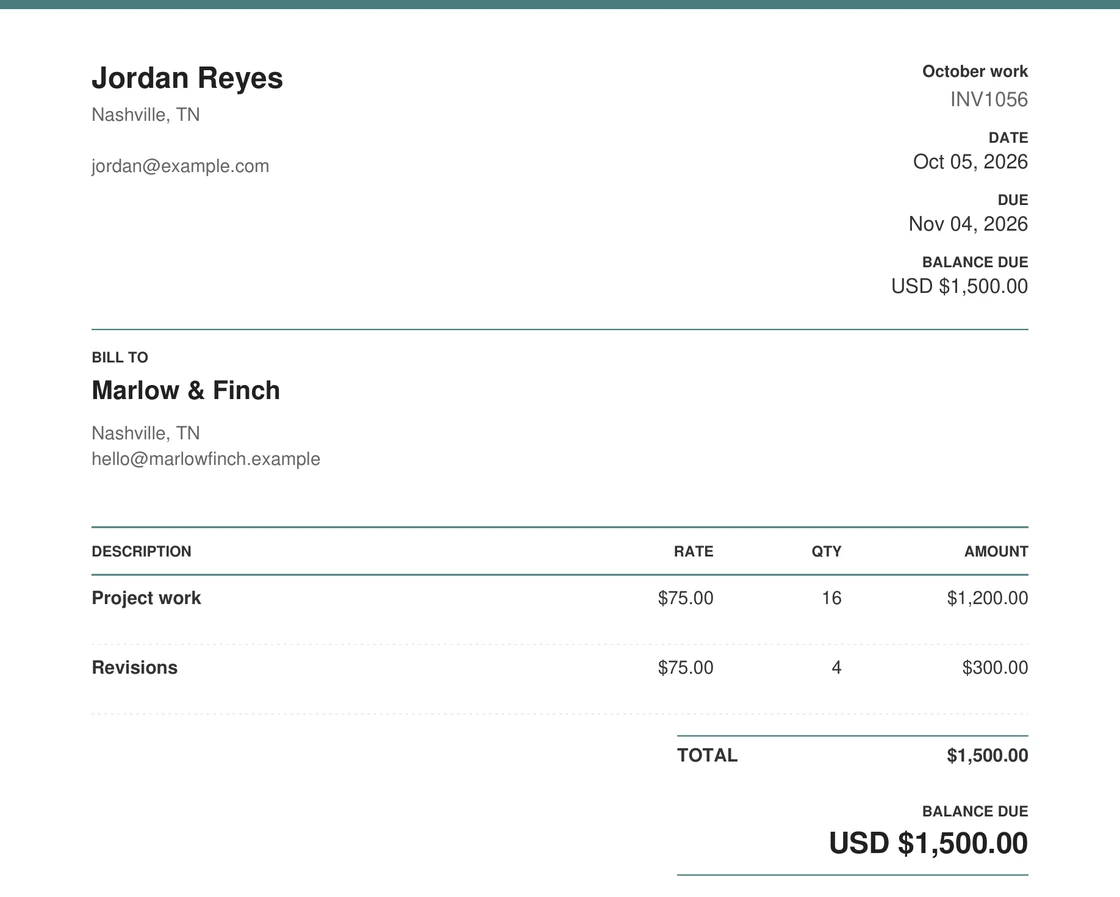
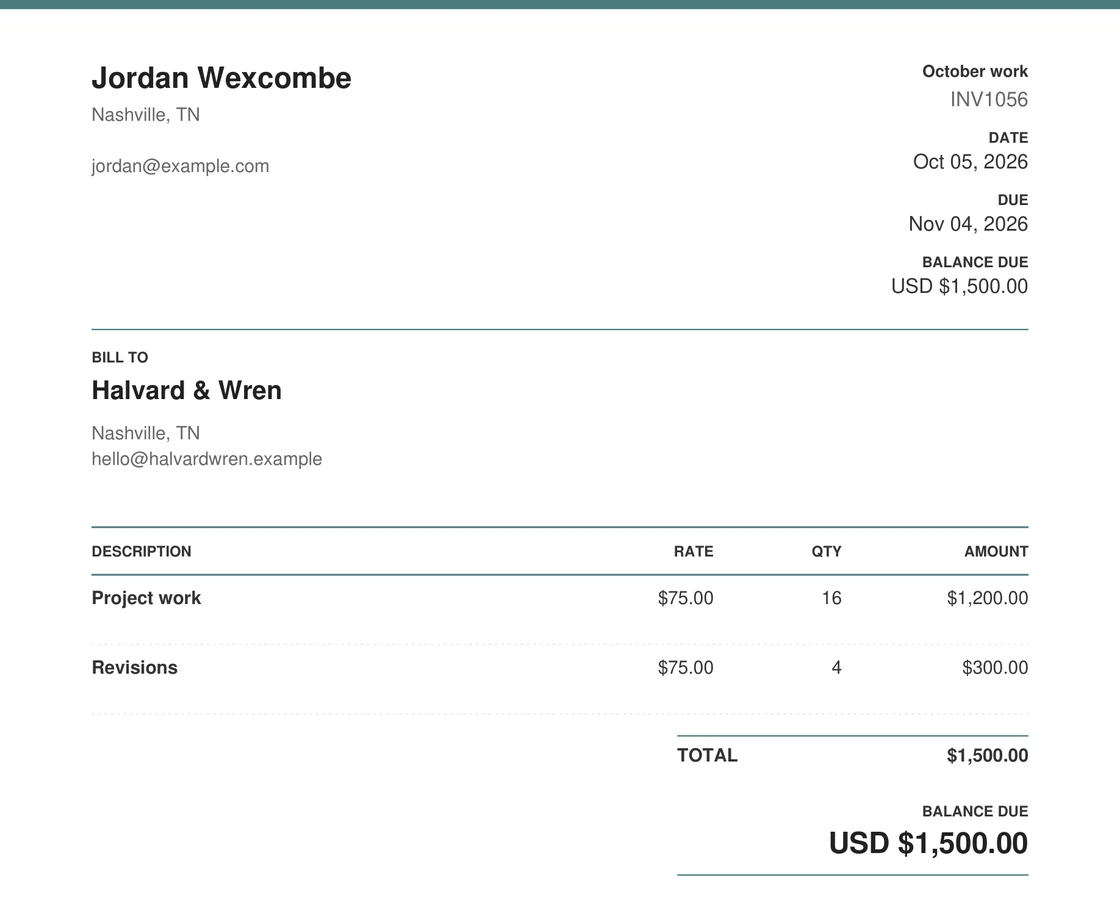
/mac: the renamed INV1056 renders (Halvard & Wren), the latte line (legal G10 v2), the dashboard alt
- assets/samples/inv1056-<style>.pdf: the invoice-film chat's renders after the G11 renames (Jordan Wexcombe, Halvard & Wren, no payment brand in the note), re-rastered with build-hero-collage.py sheets --set inv1056; the deck's alt text follows.
- The offer line: "less than a cup of coffee" -> "less than a typical café latte" (legal G10 v2: a regular cup is $3.77, a café latte $5.60, so the comparison is scoped). Daniel's OK is pending.
- The dashboard alt: one fictional overdue invoice (the re-captured shots).

Changed region(s): [[0.0938, 0.4058, 0.25, 0.4682], [0.1562, 0.0624, 0.3125, 0.1249], [0.125, 0.4994, 0.2812, 0.5307]]

diff --git a/mac.html b/mac.html
@@ -53,7 +53,7 @@
           <div class="hero-copy">
             <p class="hero-kicker">For Mac, M1 or later.</p>
             <h1>Invoice your next client for $5 a month</h1>
-            <p class="offer">$5 a month is less than a cup of coffee, and it includes every feature and unlimited invoices. The first seven days are free, with no card.</p>
+            <p class="offer">$5 a month is less than a typical café latte, and it includes every feature and unlimited invoices. The first seven days are free, with no card.</p>
             <p class="lede">
               A desktop invoicing app for freelancers. Your clients and invoices
               live in a folder on your own Mac, not on a web app's servers. Made
@@ -100,7 +100,7 @@
             </div>
           </div>
 
-          <!-- The deck: the ads' invoice (INV1056, Marlow & Finch) in the four
+          <!-- The deck: the ads' invoice (INV1056, Halvard & Wren) in the four
                templates, one real sheet each, in four fixed slots laid out by the
                --x/--y/--s/--z custom properties (percent of the deck's width, scale,
                stacking order; the ads' template in front). script.js moves sheets
@@ -108,8 +108,8 @@
                description from data-alt. -->
           <figure class="hero-invoice" id="invoice">
             <div class="stack" data-stack>
-              <a class="sheet is-front" href="/assets/samples/inv1056-modern.pdf" data-sheet="modern" data-alt="An invoice for Marlow &amp; Finch in the Modern template: project work and revisions, $1,500.00 due." style="--x: 0; --y: 36; --s: 1; --z: 4" aria-label="Open the Modern invoice as a PDF">
-                <img src="/assets/screenshots/inv1056-modern.webp" width="1120" height="897" alt="An invoice for Marlow &amp; Finch in the Modern template: project work and revisions, $1,500.00 due." fetchpriority="high" />
+              <a class="sheet is-front" href="/assets/samples/inv1056-modern.pdf" data-sheet="modern" data-alt="An invoice for Halvard &amp; Wren in the Modern template: project work and revisions, $1,500.00 due." style="--x: 0; --y: 36; --s: 1; --z: 4" aria-label="Open the Modern invoice as a PDF">
+                <img src="/assets/screenshots/inv1056-modern.webp" width="1120" height="897" alt="An invoice for Halvard &amp; Wren in the Modern template: project work and revisions, $1,500.00 due." fetchpriority="high" />
               </a>
               <a class="sheet" href="/assets/samples/inv1056-bold.pdf" data-sheet="bold" data-alt="The same invoice in the Bold template." style="--x: 4.878; --y: 24; --s: 0.985; --z: 3" aria-hidden="true" tabindex="-1">
                 <img src="/assets/screenshots/inv1056-bold.webp" width="1120" height="897" alt="" />
@@ -171,11 +171,11 @@
           <figure class="figure shot">
             <picture class="shot-dark">
               <source media="(max-width: 640px)" srcset="/assets/screenshots/dashboard-attention-dark.png" width="875" height="503" />
-              <img src="/assets/screenshots/dashboard-dark.png" width="2880" height="1800" alt="The Freelance Easy dashboard, including three fictional overdue invoices that need attention." loading="lazy" />
+              <img src="/assets/screenshots/dashboard-dark.png" width="2880" height="1800" alt="The Freelance Easy dashboard, including a fictional overdue invoice that needs attention." loading="lazy" />
             </picture>
             <picture class="shot-light">
               <source media="(max-width: 640px)" srcset="/assets/screenshots/dashboard-attention-light.png" width="875" height="503" />
-              <img src="/assets/screenshots/dashboard-light.png" width="2880" height="1800" alt="The Freelance Easy dashboard in the light theme, including three fictional overdue invoices that need attention." loading="lazy" />
+              <img src="/assets/screenshots/dashboard-light.png" width="2880" height="1800" alt="The Freelance Easy dashboard in the light theme, including a fictional overdue invoice that needs attention." loading="lazy" />
             </picture>
             <figcaption>The dashboard, with fictional data.</figcaption>
           </figure>
